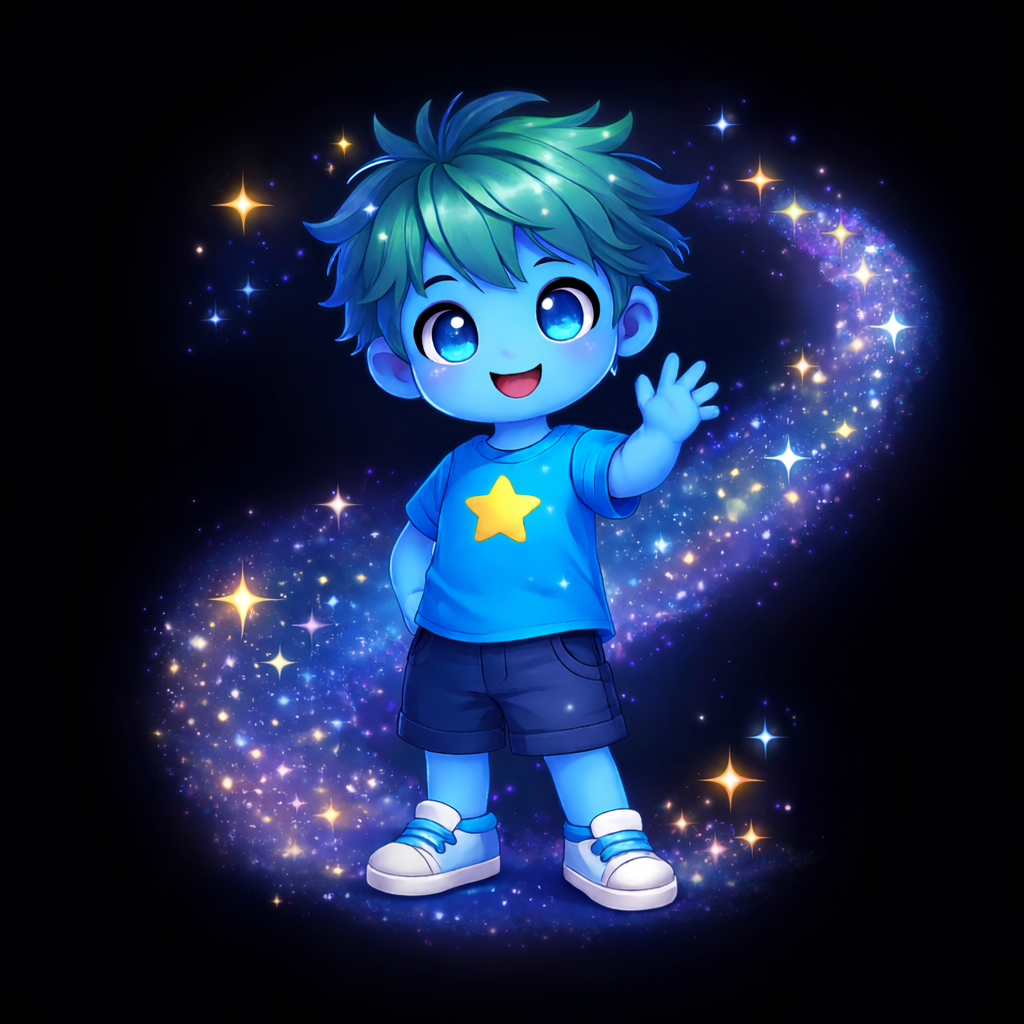
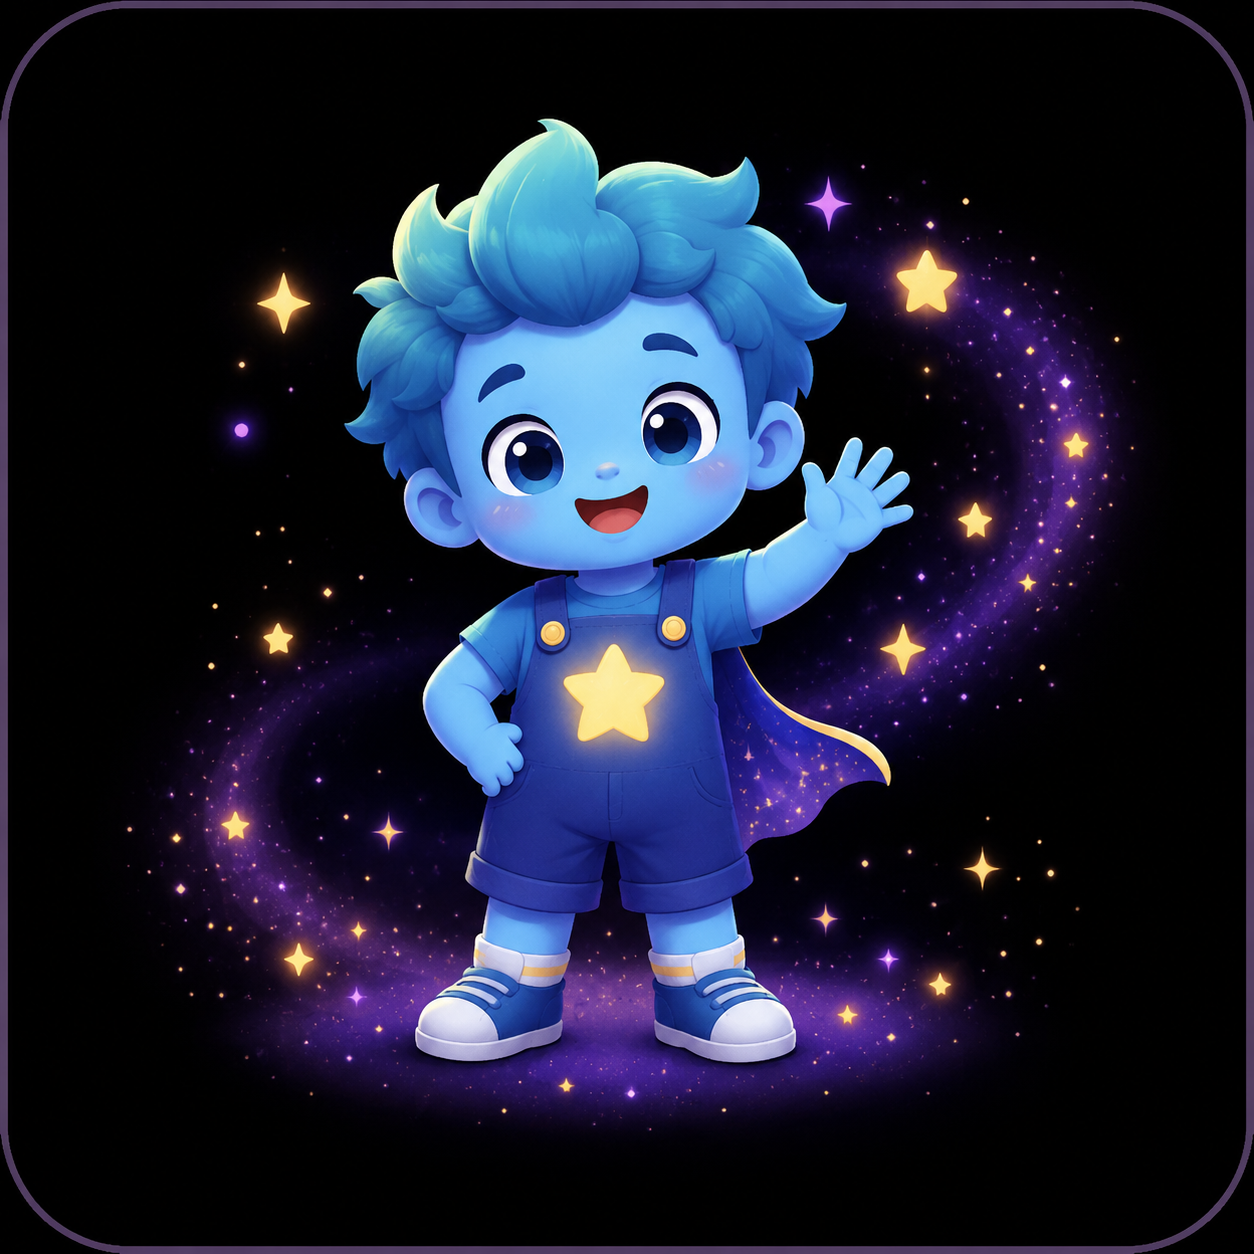
feat(wizard): mirror character to local Isar on save (hero step)
Backend outage previously meant a created character was lost after
restart — `_saveCharacterDraft` only POSTed to the backend with no
local fallback. Now writes to local Isar (SharedPreferences on web)
right after the backend attempt, success or failure. The existing
`_preloadSavedCharacters` fallback to Isar (lib/main_story.dart:148)
already feeds the wizard's "Welcome back!" page, so a character now
survives backend downtime end-to-end.

Same fix applies to magic_review_step.dart's `_saveCharacterIfNeeded`
but that file holds parallel-session WIP (codex-2026-05-08, MT-065)
and is held back. See MT-066 in docs/MANUAL_TASKS.md.

Also swaps sprouts_boy.png / sprouts_girl.png with new portraits.

diff --git a/lib/screens/wizard_steps/hero_creator_step.dart b/lib/screens/wizard_steps/hero_creator_step.dart
@@ -16,6 +16,8 @@ import '../../theme/app_theme.dart';
 import '../../widgets/archetype_card.dart';
 import '../../widgets/magic_star_cursor.dart';
 import '../../services/api_service_manager.dart';
+import '../../services/isar_service.dart';
+import '../../models/local/character_local.dart';
 import '../../services/avatar_generation_state.dart';
 import '../../services/caregiver_service.dart';
 import '../../services/child_profile_service.dart';
@@ -717,6 +719,9 @@ class _HeroCreatorStepState extends State<HeroCreatorStep>
 
   Future<bool> _saveCharacterDraft() async {
     if (!_isCreatingNew) return true;
+    bool backendOk = true;
+    bool isLocalBackendDown = false;
+    Object? caughtError;
     try {
       final body = {
         'name': widget.wizardData.characterName,
@@ -743,19 +748,40 @@ class _HeroCreatorStepState extends State<HeroCreatorStep>
           widget.wizardData.characterId = response['id']?.toString();
         }
       }
-      return true;
     } catch (e) {
       debugPrint('⚠ Character save failed: $e');
-      final isLocal = e.toString().contains('Cannot reach the local backend');
-      if (mounted) {
-        ScaffoldMessenger.of(context).showSnackBar(SnackBar(
-          content: Text(isLocal
-              ? 'Avatar selected. Could not sync right now.'
-              : 'Could not save character: $e'),
-          backgroundColor: isLocal ? AppColors.gold : AppColors.error,
-        ));
-      }
-      return isLocal;
+      backendOk = false;
+      caughtError = e;
+      isLocalBackendDown = e.toString().contains('Cannot reach the local backend');
+    }
+    // Mirror to local Isar so a backend outage doesn't lose the character.
+    await _persistLocalCharacter(synced: backendOk);
+    if (!backendOk && mounted) {
+      ScaffoldMessenger.of(context).showSnackBar(SnackBar(
+        content: Text(isLocalBackendDown
+            ? 'Avatar selected. Could not sync right now.'
+            : 'Could not save character: $caughtError'),
+        backgroundColor: isLocalBackendDown ? AppColors.gold : AppColors.error,
+      ));
+    }
+    return backendOk || isLocalBackendDown;
+  }
+
+  Future<void> _persistLocalCharacter({required bool synced}) async {
+    try {
+      widget.wizardData.characterId ??=
+          'local_${DateTime.now().millisecondsSinceEpoch}';
+      final avatar = widget.wizardData.generatedAvatar;
+      final localChar = CharacterLocal()
+        ..characterId = widget.wizardData.characterId!
+        ..name = widget.wizardData.characterName
+        ..age = widget.wizardData.characterAge
+        ..avatarUrl = avatar?.imageBase64
+        ..isSyncedToServer = synced
+        ..createdAt = DateTime.now();
+      await IsarService.saveCharacter(localChar);
+    } catch (e) {
+      debugPrint('⚠ Local character save failed: $e');
     }
   }
 
